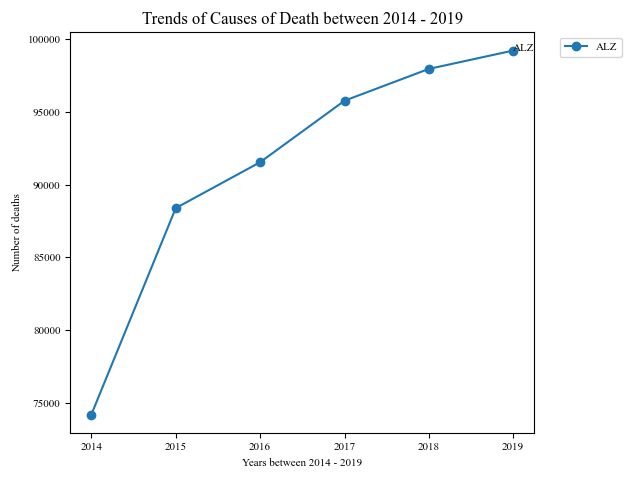
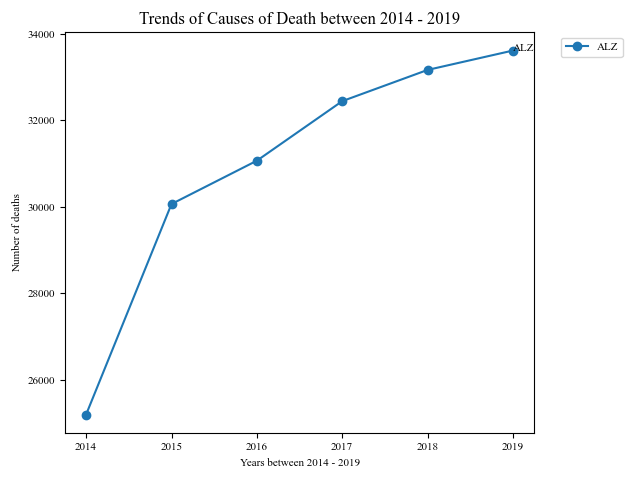
Fix numbers by using only total population and fixing graphs

diff --git a/src/causeOfDeathData.py b/src/causeOfDeathData.py
@@ -10,7 +10,7 @@ def cleanData(df):
     clean_df = clean_df[["Year", "County", "Strata", "Strata_Name", "Cause", "Cause_Desc","Count"]]
     return clean_df
 
-def causeOfDeath(inputFile='../data/death.csv'):
+def causeOfDeath(inputFile='data/death.csv'):
     assert isinstance(inputFile, str) and os.path.exists(inputFile)
     
     data = pd.read_csv(inputFile)
@@ -22,9 +22,10 @@ def causeOfDeath(inputFile='../data/death.csv'):
         'Count' : 'sum'
     }
     
-    c_df = c_df.groupby(['Year','Cause']).agg(f).reset_index()
+    c_df = c_df.groupby(['Year','Cause', "Strata"]).agg(f).reset_index()
     c_df.set_index("Year")
     c_df = c_df[c_df["Cause"] != "ALL"]
+    c_df = c_df[c_df["Strata"] == "Total Population"]
     
     return c_df
 
@@ -57,10 +58,24 @@ def plot_and_save_clause(df, causes=[]):
     plt.xlabel("Years between 2014 - 2019")
     plt.ylabel("Number of deaths")
     plt.tight_layout()
-    plt.savefig(f"../visualization/{final_save_string}.png")
+    plt.savefig(f"visualization/{final_save_string}.png")
+
+def plot_total_pie(df, year):
+    assert isinstance(year, int)
+    fig = plt.figure()
+    plt.rcParams["font.family"] = "Times New Roman"
+    plt.rc('font', size=8)
+    plt.title(f"Causes of Death Percentages in {year}",
+              fontsize=12)
+    all_causes = df["Cause"].unique()
+    plot_df = df[df["Year"] == year]
+    plt.pie(plot_df["Count"], startangle=90, autopct='%1.1f%%', labels=plot_df["Cause"])
+
+    plt.savefig(f"visualization/total_death_percentage_pie.png")
 
 df = causeOfDeath()
 plot_and_save_clause(df, causes=["ALZ","HYP","HTD"])
 plot_and_save_clause(df, causes=["ALZ"])
 plot_and_save_clause(df, causes=["HYP"])
 plot_and_save_clause(df, causes=["HTD"])
+plot_total_pie(df, 2014)
